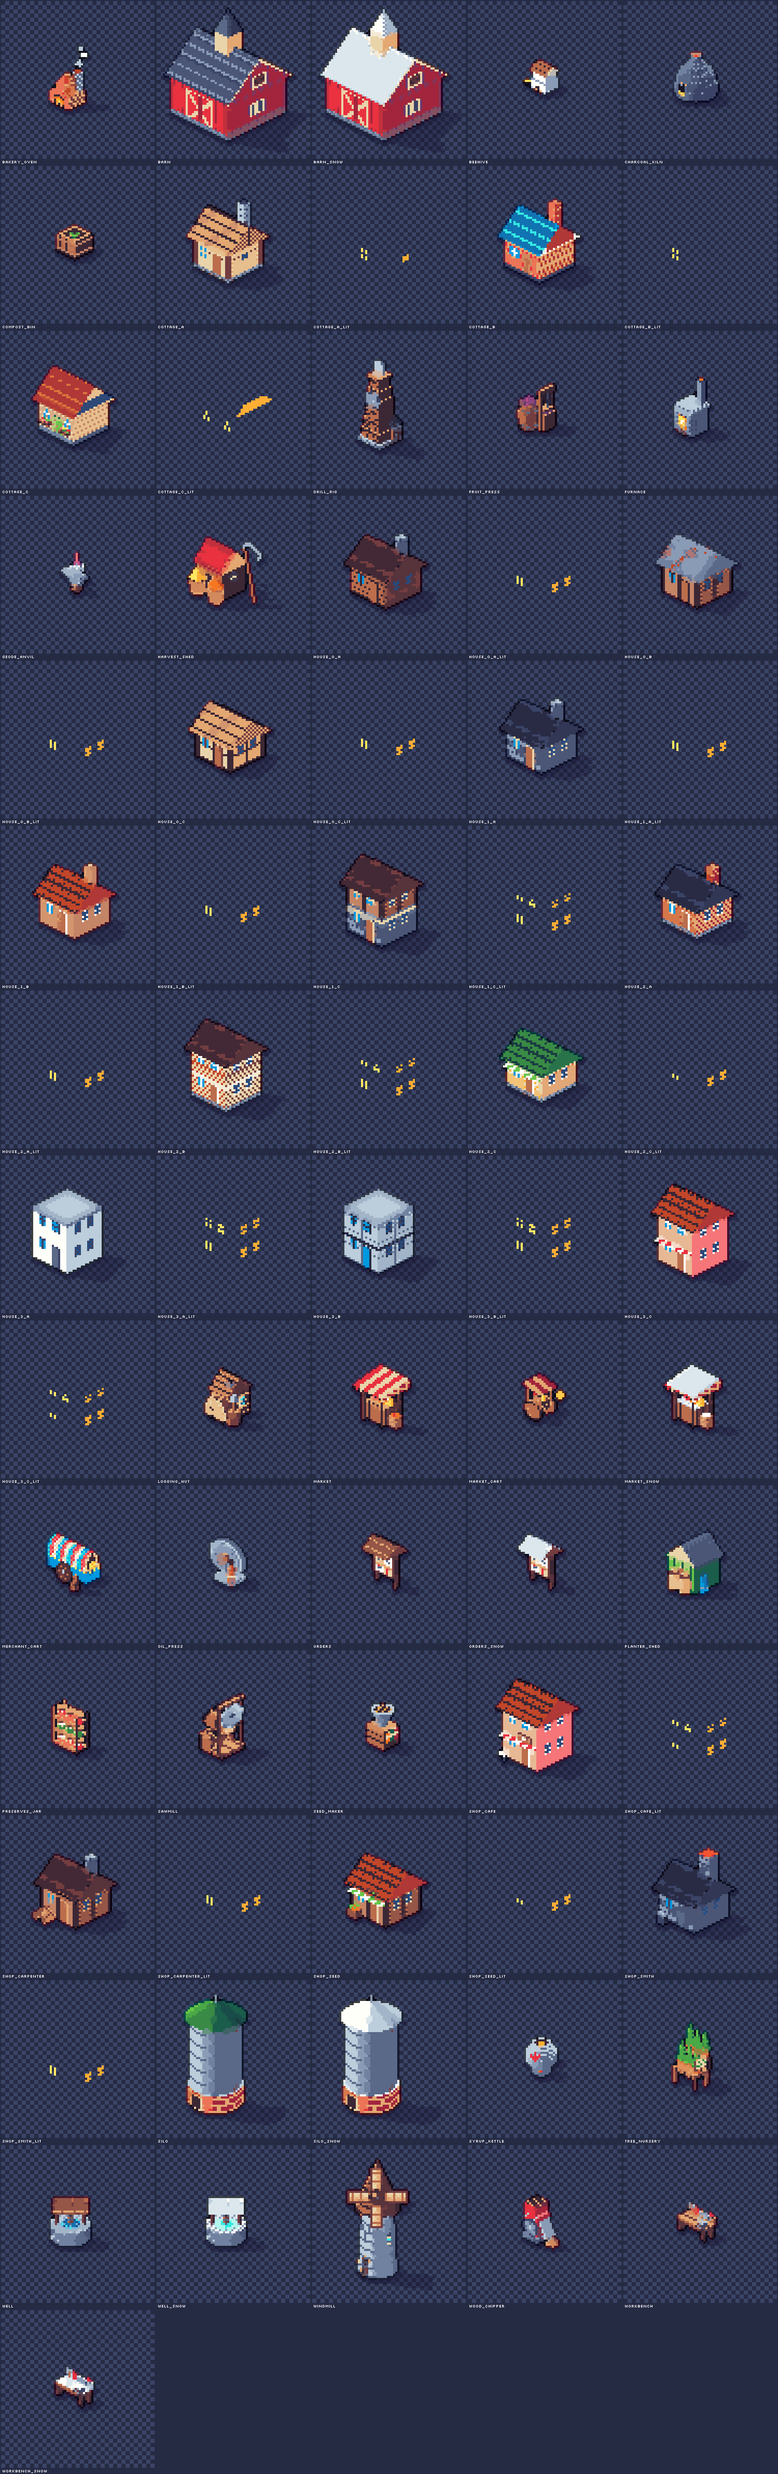
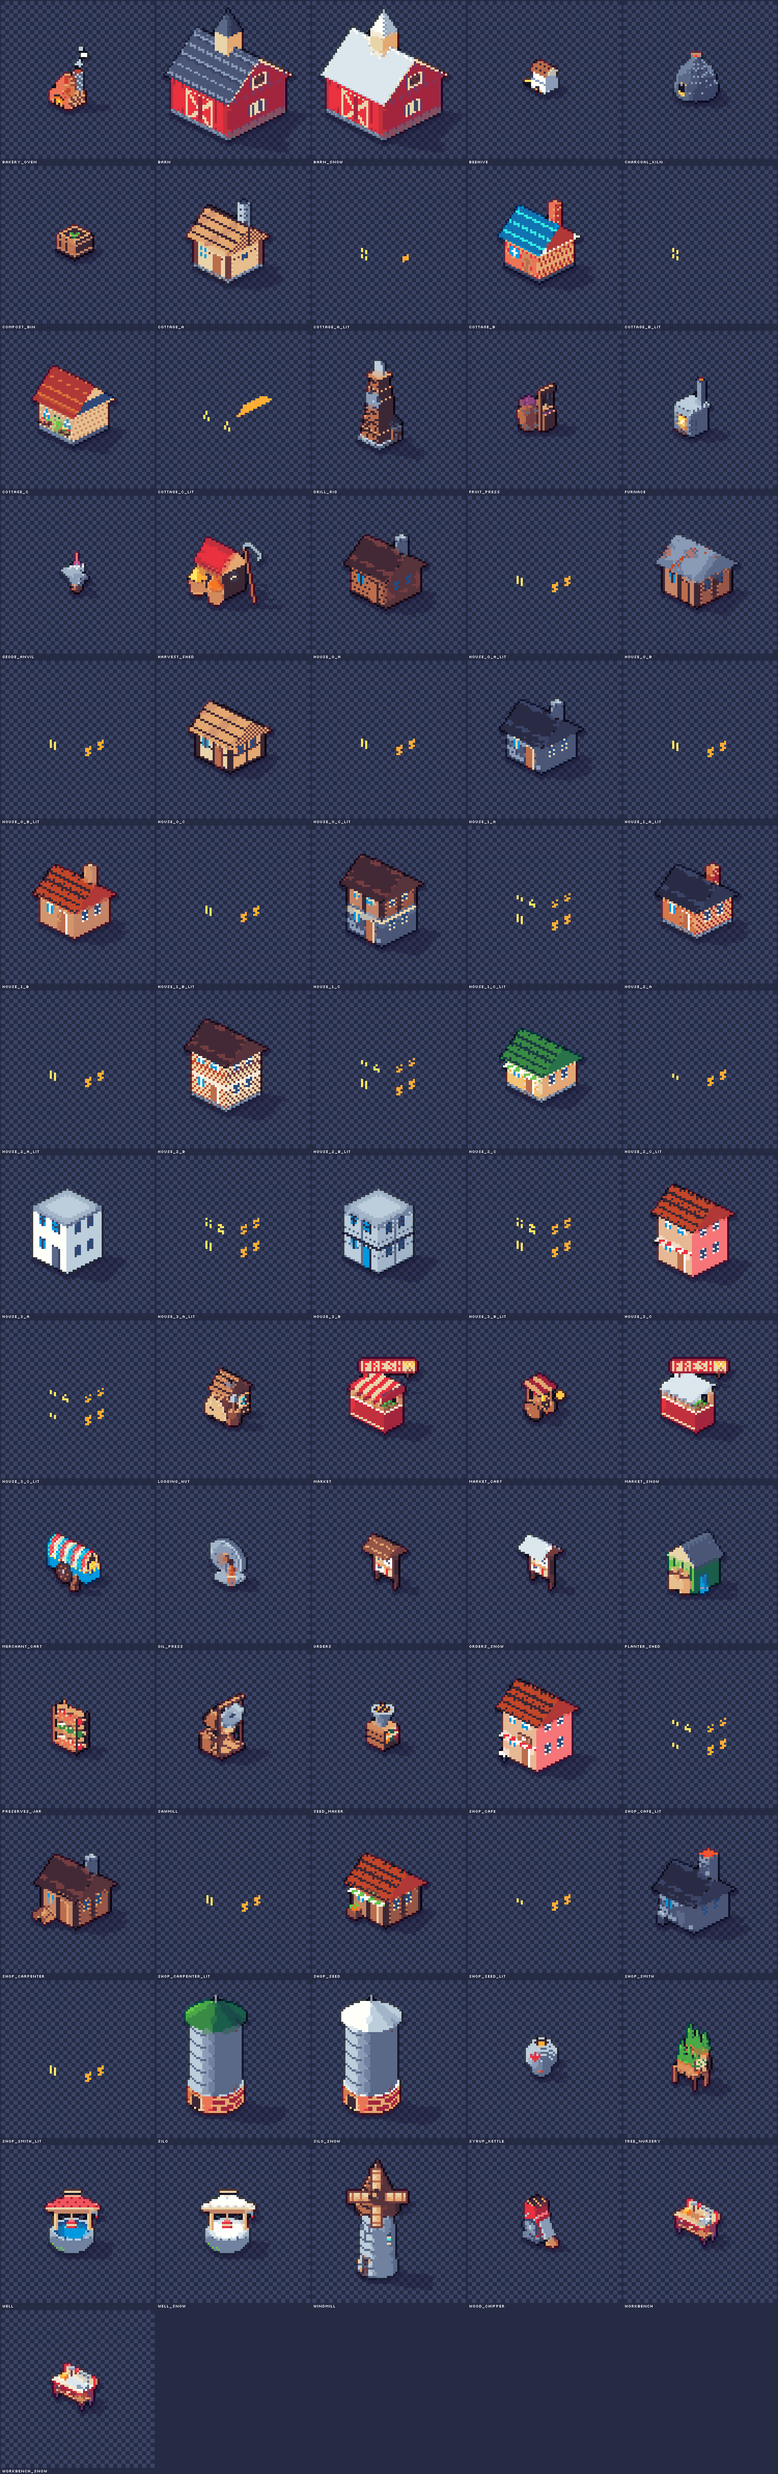
Art round 5: hand-pixeled truck, workbench, well and market stall in the game
The painted-toy versions replace the ray-cast ones (their generators no longer
emit them), each redrawn to fit its scale band.

Claude-Session: https://claude.ai/code/session_01WzqNnDX2S9CAE6QnGepdXg

diff --git a/farm-game/Tools/ArtGen/pixel/farm_hand.py b/farm-game/Tools/ArtGen/pixel/farm_hand.py
@@ -7,18 +7,20 @@ the farm: the barn's red-and-cream trim on every building and vehicle, the wheat
 nothing is copied from them.
 
   vehicles/truck_se_0/1, truck_ne_0/1   the red pickup, driving down-right / away up-right
+  vehicles/truck_load                   produce crates in its bed (drawn on the parked truck)
   buildings/workbench(_snow)            the farmyard workbench
   buildings/well(_snow)                 the stone well
   buildings/market(_snow)               the market stall
 
 Pivot = the ground centre of the footprint.
 """
+import json
 import os
 import sys
 
 sys.path.insert(0, os.path.dirname(os.path.abspath(__file__)))
 from _iso import Iso, soften  # noqa: E402
-from _pix import finish  # noqa: E402
+from _pix import Sprites, finish  # noqa: E402
 
 # Paint (top / left face / right face).
 RED = ("red", "red_d", "purple")
@@ -46,26 +48,26 @@ def truck_se(frame):
     c = Iso(40, 34, 12, 14)
     c.box(0.5, 11.5, 0.5, 4.5, 1, 2.5, *DARK, lit=False)                      # chassis
     # Bed: red sides with cream stakes and rim, the wheat emblem, a wooden floor inside.
-    c.box(0, 6.6, 0, W, 2, 7, "cream", "red_d", "purple")
-    c.box(0.4, 6.6, 0.4, W - 0.4, 2.6, 6.6, "brown", "brown_l", "brown_d", lit=False)
+    c.box(0, 6.6, 0, W, 2, 6, "cream", "red_d", "purple")
+    c.box(0.4, 6.6, 0.4, W - 0.4, 2.6, 5.6, "brown", "brown_l", "brown_d", lit=False)
     for i in range(3):
         c.uline(0.6, 6.4, 1.3 + i * 1.2, 2.6, "brown_d")                      # floor planks
     for u in (0.3, 6.2):
-        c.zline(u, W, 2, 7, "cream")                                          # stakes
-    x, y = c.p(2.4, W, 6.4)
+        c.zline(u, W, 2, 6, "cream")                                          # stakes
+    x, y = c.p(2.4, W, 5.8)
     c.wheat(x, y)
     # Cab: red, cream roof, windows with a glint, door seam and handle.
-    c.box(6.6, 9.6, 0, W, 2, 11, "cream", "red", "red_d")
-    c.box(6.9, 9.3, W - 0.01, W, 6.6, 9.8, "blue_d", "blue_d", "blue_d", lit=False)
-    c.box(9.59, 9.6, 0.5, W - 0.5, 7.0, 10.2, "blue_d", "blue_d", "blue_d", lit=False)
-    x, y = c.p(7.2, W, 9.3)
+    c.box(6.6, 9.6, 0, W, 2, 10, "cream", "red", "red_d")
+    c.box(6.9, 9.3, W - 0.01, W, 6.2, 9.0, "blue_d", "blue_d", "blue_d", lit=False)
+    c.box(9.59, 9.6, 0.5, W - 0.5, 6.4, 9.4, "blue_d", "blue_d", "blue_d", lit=False)
+    x, y = c.p(7.2, W, 8.5)
     c.dot(x, y, "cyan"); c.dot(x + 1, y, "white"); c.dot(x + 2, y + 1, "cyan")
-    x, y = c.p(9.6, 1.0, 9.7)
+    x, y = c.p(9.6, 1.0, 8.9)
     c.dot(x, y, "white"); c.dot(x - 1, y + 1, "cyan")
-    x, y = c.p(9.6, W, 6.6)                                                   # pillar between windows
+    x, y = c.p(9.6, W, 6.2)                                                   # pillar between windows
     for k in range(4):
         c.dot(x - 1, y - k, "red"); c.dot(x - 2, y - k, "red_d")
-    c.zline(6.9, W, 2.4, 10, "red_d")
+    c.zline(6.9, W, 2.4, 9.2, "red_d")
     x, y = c.p(7.6, W, 5.6)
     c.dot(x, y, "cream"); c.dot(x + 1, y, "cream")
     # Bonnet: red, cream stripe, grille, lamps, cream bumper.
@@ -79,7 +81,7 @@ def truck_se(frame):
         x, y = c.p(L, v, 5.0)
         c.dot(x - 1, y, "yellow"); c.dot(x - 2, y, "white")
     c.box(L, L + 0.25, 0.2, W - 0.2, 1.8, 2.6, "cream", "cream", "tan")
-    c.box(9.2, 9.5, W, W + 0.5, 8, 9.2, *IRON)                                # mirror
+    c.box(9.2, 9.5, W, W + 0.5, 7.4, 8.6, *IRON)                                # mirror
     x, y = c.p(0.1, W, 5.5)
     c.dot(x, y, "pink_r"); c.dot(x + 1, y, "pink_r")                          # tail lamp
     for u in (2.4, 9.7):
@@ -95,24 +97,24 @@ def truck_ne(frame):
     c = Iso(40, 34, 22, 8)
     c.box(0.5, 4.5, 0.5, 11.5, 1, 2.5, *DARK, lit=False)
     # Length runs along v here: bonnet at the far end (small v), cab, then the bed nearest.
-    c.box(0, W, 0, 2.6, 2, 6.6, "red", "red", "red_d")                       # bonnet
-    c.box(0, W, 2.6, 5.6, 2, 11, "cream", "red", "red_d")                    # cab
-    c.box(W - 0.01, W, 3.0, 5.2, 6.6, 9.8, "blue_d", "blue_d", "blue_d", lit=False)
-    x, y = c.p(W, 3.4, 9.4)
+    c.box(0, W, 0, 2.6, 2, 6, "red", "red", "red_d")                         # bonnet
+    c.box(0, W, 2.6, 5.6, 2, 8.8, "cream", "red", "red_d")                   # cab
+    c.box(W - 0.01, W, 3.0, 5.2, 5.6, 8.0, "blue_d", "blue_d", "blue_d", lit=False)
+    x, y = c.p(W, 3.4, 7.6)
     c.dot(x - 1, y, "cyan"); c.dot(x - 2, y + 1, "white")
-    x, y = c.p(0.8, 5.59, 10.2)                                              # rear window
+    x, y = c.p(0.8, 5.59, 8.2)                                              # rear window
     for i in range(6):
         c.dot(x + i, y + i // 2, "blue_d"); c.dot(x + i, y + i // 2 + 1, "blue_d")
     c.dot(x + 1, y + 1, "cyan")
-    c.box(0, W, 5.6, L, 2, 7, "cream", "red", "red_d")                       # bed
-    c.box(0.4, W - 0.4, 5.6, L - 0.4, 2.6, 6.6, "brown", "brown_l", "brown_d", lit=False)
-    c.vline(W, round(L - 5.6), 5.6, 4.6, "cream")                            # side stripe
+    c.box(0, W, 5.6, L, 2, 6, "cream", "red", "red_d")                       # bed
+    c.box(0.4, W - 0.4, 5.6, L - 0.4, 2.6, 5.6, "brown", "brown_l", "brown_d", lit=False)
+    c.vline(W, round(L - 5.6), 5.6, 4.2, "cream")                            # side stripe
     for i in range(3):
         c.vline(0.8 + i * 1.2, round(L - 6.2), 5.8, 2.6, "brown_d")
-    x, y = c.p(W / 2 - 0.4, L, 6.6)                                          # tailgate emblem
+    x, y = c.p(W / 2 - 0.4, L, 5.8)                                          # tailgate emblem
     c.wheat(x - 2, y)
     for u in (0.4, W - 0.8):                                                 # tail lamps
-        x, y = c.p(u, L, 5.4)
+        x, y = c.p(u, L, 4.8)
         c.dot(x, y, "pink_r"); c.dot(x + 1, y, "pink_r")
     c.box(0.2, W - 0.2, L, L + 0.25, 1.8, 2.6, "cream", "cream", "tan")      # bumper
     for v in (3.2, 9.6):
@@ -130,37 +132,37 @@ def workbench(winter):
     U, V = 7, 3
     top = "white" if winter else "tan"
     for u, v in ((0.2, 2.4), (6.4, 2.4), (6.4, 0.2)):                        # red legs
-        c.box(u, u + 0.5, v, v + 0.5, 0, 7, "red", "red_d", "purple")
-    c.box(0.4, 6.6, 0.4, 2.6, 2, 2.8, *WOOD_D)                                # bottom shelf
-    c.box(0.8, 4.0, 0.8, 2.2, 2.8, 4.4, "tan", "brown_l", "brown")          # planks on it
-    c.uline(0.8, 4.0, 2.2, 3.6, "brown")
-    c.box(0, U, 0, V, 7, 8.6, top, "red", "red_d")                            # top with a red apron
-    c.uline(0, U, 1, 8.6, "brown_l" if not winter else "grey_l")              # plank seams
-    c.uline(0, U, 2, 8.6, "brown_l" if not winter else "grey_l")
-    c.uline(0, U, V, 7.6, "cream")                                            # cream trim on the apron
-    c.box(2, 5, V - 0.01, V, 4.6, 6.8, "red_d", "red_d", "red_d", lit=False)  # drawer
-    x, y = c.p(3.5, V, 5.6)
+        c.box(u, u + 0.5, v, v + 0.5, 0, 6, "red", "red_d", "purple")
+    c.box(0.4, 6.6, 0.4, 2.6, 1.6, 2.4, *WOOD_D)                                # bottom shelf
+    c.box(0.8, 4.0, 0.8, 2.2, 2.4, 3.8, "tan", "brown_l", "brown")          # planks on it
+    c.uline(0.8, 4.0, 2.2, 3.1, "brown")
+    c.box(0, U, 0, V, 6, 7.6, top, "red", "red_d")                            # top with a red apron
+    c.uline(0, U, 1, 7.6, "brown_l" if not winter else "grey_l")              # plank seams
+    c.uline(0, U, 2, 7.6, "brown_l" if not winter else "grey_l")
+    c.uline(0, U, V, 6.6, "cream")                                            # cream trim on the apron
+    c.box(2, 5, V - 0.01, V, 3.8, 5.8, "red_d", "red_d", "red_d", lit=False)  # drawer
+    x, y = c.p(3.5, V, 4.8)
     c.dot(x, y, "cream"); c.dot(x + 1, y, "cream")
     # Tool board at the back, cream with a red frame, tools hanging on it.
-    c.box(0, U, -0.5, 0, 8.6, 15.5, "red", "cream", "tan_d")
-    c.uline(0, U, 0, 15.0, "red")
-    c.zline(0.1, 0, 8.6, 15.4, "red")
-    c.zline(U - 0.1, 0, 8.6, 15.4, "red")
-    x, y = c.p(1.0, 0, 14.0)                                                  # hammer
+    c.box(0, U, -0.5, 0, 7.6, 11.8, "red", "cream", "tan_d")
+    c.uline(0, U, 0, 11.3, "red")
+    c.zline(0.1, 0, 7.6, 11.7, "red")
+    c.zline(U - 0.1, 0, 7.6, 11.7, "red")
+    x, y = c.p(1.0, 0, 10.6)                                                  # hammer
     for i in range(3):
         c.dot(x + i, y, "grey_l"); c.dot(x + i, y + 1, "grey")
-    for i in range(4):
+    for i in range(3):
         c.dot(x + 1, y + 2 + i, "brown")
-    x, y = c.p(2.6, 0, 13.6)                                                  # saw
+    x, y = c.p(2.6, 0, 10.2)                                                  # saw
     c.dot(x, y, "red"); c.dot(x + 1, y, "red"); c.dot(x, y + 1, "red_d")
     for i in range(6):
         c.dot(x + 2 + i, y + i // 2, "grey_l"); c.dot(x + 2 + i, y + i // 2 + 1, "grey" if i % 2 else "grey_d")
-    x, y = c.p(5.4, 0, 14.2)                                                  # wrench
+    x, y = c.p(5.4, 0, 10.8)                                                  # wrench
     c.dot(x - 1, y, "grey"); c.dot(x + 1, y, "grey"); c.dot(x, y + 1, "grey")
-    for i in range(4):
+    for i in range(3):
         c.dot(x, y + 2 + i, "grey_d")
-    c.box(5.4, 6.7, 1.0, 2.2, 8.6, 10.2, *IRON)                               # vice
-    c.box(1.0, 1.6, 1.2, 1.8, 8.6, 10.6, "yellow", "amber", "orange")        # oil can
+    c.box(5.4, 6.7, 1.0, 2.2, 7.6, 9.2, *IRON)                               # vice
+    c.box(1.0, 1.6, 1.2, 1.8, 7.6, 9.6, "yellow", "amber", "orange")        # oil can
     soften(c.im)
     return c, c.pivot(U / 2, V / 2)
 
@@ -171,16 +173,16 @@ def well(winter):
     """Stone drum, cream posts, a red shingle roof with cream trim, red bucket on its rope."""
     c = Iso(40, 46, 20, 30)
     cx, cy = c.p(0, 0, 0)
-    rx, ry, hgt = 10, 5, 9
+    rx, ry, hgt = 10, 5, 6
     for z in range(hgt + 1):
         c.ellipse(cx, cy - z, rx, ry, "grey" if z < hgt else "grey_l")
-    for z in (3, 6):                                                          # mortar courses
+    for z in (2, 4):                                                          # mortar courses
         for x in range(cx - rx + 1, cx + rx):
             dx = (x - cx) / rx
             c.dot(x, round(cy - z + ry * (1 - dx * dx) ** 0.5), "grey_d")
     for x in range(cx - rx + 3, cx + rx - 1, 4):                              # staggered joints
-        for z0 in (0, 3, 6):
-            xx = x + (2 if (z0 // 3) % 2 else 0)
+        for z0 in (0, 2, 4):
+            xx = x + (2 if (z0 // 2) % 2 else 0)
             if abs(xx - cx) >= rx - 1:
                 continue
             dx = (xx - cx) / rx
@@ -195,11 +197,11 @@ def well(winter):
         c.ellipse(cx + 1, cy - hgt + 1, rx - 4, ry - 2, "blue")
         c.dot(cx - 3, cy - hgt - 1, "cyan"); c.dot(cx - 2, cy - hgt - 1, "cyan")
     for px_ in (cx - 8, cx + 8):                                              # cream posts
-        for z in range(hgt, hgt + 14):
+        for z in range(hgt, hgt + 10):
             c.dot(px_, cy - z, "cream"); c.dot(px_ + 1, cy - z, "tan")
     for x in range(cx - 8, cx + 10):                                          # crossbeam
-        c.dot(x, cy - hgt - 13, "cream"); c.dot(x, cy - hgt - 12, "tan_d")
-    for z in range(hgt + 4, hgt + 12):
+        c.dot(x, cy - hgt - 9, "cream"); c.dot(x, cy - hgt - 8, "tan_d")
+    for z in range(hgt + 4, hgt + 8):
         c.dot(cx, cy - z, "tan")                                              # rope
     c.ellipse(cx, cy - hgt - 3, 2, 1, "pink")                                 # red bucket, cream hoops
     for z in range(hgt + 1, hgt + 4):
@@ -209,21 +211,21 @@ def well(winter):
     for x in range(cx - 2, cx + 3):
         c.dot(x, cy - hgt - 2, "cream")
     for i in range(3):                                                        # crank
-        c.dot(cx + 10 + i, cy - hgt - 12, "grey")
-    c.dot(cx + 12, cy - hgt - 11, "grey"); c.dot(cx + 12, cy - hgt - 10, "red")
+        c.dot(cx + 10 + i, cy - hgt - 8, "grey")
+    c.dot(cx + 12, cy - hgt - 7, "grey"); c.dot(cx + 12, cy - hgt - 6, "red")
     # Roof: red shingle rows, cream eave board and ridge cap (the barn's colours).
     base, lip, seam = ("white", "white", "grey_l") if winter else ("red", "pink", "red_d")
-    rows = 4
+    rows = 3
     for row in range(rows):
-        y = cy - hgt - 16 - row * 2
-        half = 12 - row * 3
+        y = cy - hgt - 12 - row * 2
+        half = 12 - row * 4
         for x in range(cx - half, cx + half + 2):
             c.dot(x, y, lip)
             c.dot(x, y + 1, seam if (x + row * 2) % 4 == 0 else base)
     for x in range(cx - 12, cx + 14):
-        c.dot(x, cy - hgt - 14, "cream"); c.dot(x, cy - hgt - 13, "tan_d")     # eave board
+        c.dot(x, cy - hgt - 10, "cream"); c.dot(x, cy - hgt - 9, "tan_d")      # eave board
     for x in range(cx - 3, cx + 5):
-        c.dot(x, cy - hgt - 16 - rows * 2, "cream")                           # ridge cap
+        c.dot(x, cy - hgt - 12 - rows * 2, "cream")                           # ridge cap
     soften(c.im)
     return c, (cx, cy + ry)
 
@@ -235,7 +237,7 @@ def market(winter):
     c = Iso(52, 60, 22, 40)
     U, V = 8, 4
     for u, v in ((0, V - 0.4), (U - 0.4, V - 0.4), (U - 0.4, 0)):            # cream posts
-        c.box(u, u + 0.4, v, v + 0.4, 0, 19, *CREAM)
+        c.box(u, u + 0.4, v, v + 0.4, 0, 16, *CREAM)
     c.box(0, U, 0, V, 0, 9, "cream", "red", "red_d")                         # counter
     for k in range(1, U):
         c.zline(k, V, 0.6, 8.4, "red_d")                                     # front boards
@@ -250,29 +252,66 @@ def market(winter):
     stripes = ("white", "grey_l") if winter else ("red", "cream")
     for k in range(U * 2):                                                   # striped awning
         u = k * 0.5
-        c.poly([(u, -0.4, 22), (u + 0.5, -0.4, 22), (u + 0.5, V + 0.6, 18), (u, V + 0.6, 18)], stripes[(k // 2) % 2])
+        c.poly([(u, -0.4, 18.5), (u + 0.5, -0.4, 18.5), (u + 0.5, V + 0.6, 15), (u, V + 0.6, 15)], stripes[(k // 2) % 2])
     for k in range(U * 2):                                                   # scalloped valance
         u = k * 0.5
-        x, y = c.p(u, V + 0.6, 18)
+        x, y = c.p(u, V + 0.6, 15)
         col = ("grey_l" if winter else "red_d") if (k // 2) % 2 == 0 else ("grey" if winter else "tan")
         c.dot(x, y + 1, col); c.dot(x + 1, y + 1, col)
         if k % 2 == 0:
             c.dot(x, y + 2, col)
     if not winter:
-        c.box(U - 0.01, U, -0.4, V + 0.6, 18, 22, "purple", "purple", "red_d", lit=False)
+        c.box(U - 0.01, U, -0.4, V + 0.6, 15, 18.5, "purple", "purple", "red_d", lit=False)
     # The painted sign on top of the awning: FRESH with the wheat emblem.
-    sx, sy = c.p(U / 2, -0.4, 22)
-    sx -= 13; sy -= 9
+    sx, sy = c.p(U / 2, -0.4, 18.5)
+    sx -= 13; sy -= 8
     for x in range(sx, sx + 28):
-        for y in range(sy, sy + 8):
-            edge = x in (sx, sx + 27) or y in (sy, sy + 7)
+        for y in range(sy, sy + 7):
+            edge = x in (sx, sx + 27) or y in (sy, sy + 6)
             c.dot(x, y, "red_d" if edge else "cream")
-    c.text(sx + 2, sy + 2, "FRESH", "red")
+    c.text(sx + 2, sy + 1, "FRESH", "red")
     c.wheat(sx + 22, sy + 1)
     for x in (sx + 4, sx + 23):
-        c.dot(x, sy + 8, "brown"); c.dot(x, sy + 9, "brown")
+        c.dot(x, sy + 7, "brown"); c.dot(x, sy + 8, "brown")
     soften(c.im)
     return c, c.pivot(U / 2, V / 2)
+
+
+def truck_load():
+    """Crates of produce in the bed of the parked (down-right) truck, on the truck's own pivot."""
+    L, W = 12, 5
+    c = Iso(40, 34, 12, 14)
+    for u0, v0, z0 in ((0.6, 0.6, 2.6), (3.4, 0.6, 2.6), (0.6, 0.6, 5.8)):
+        c.box(u0, u0 + 2.6, v0, v0 + 3.6, z0, z0 + 3.2, "tan", "brown_l", "brown")
+        c.uline(u0, u0 + 2.6, v0 + 3.6, z0 + 1.6, "brown")
+    for u, v, light, dark in ((1.2, 1.4, "pink", "red"), (2.2, 2.6, "amber", "orange"), (4.2, 1.6, "green", "green_d"), (5.0, 2.8, "pink", "red")):
+        x, y = c.p(u, v, 9.4 if u < 3.4 else 6.2)
+        c.dot(x, y, light); c.dot(x + 1, y, dark); c.dot(x, y + 1, dark); c.dot(x + 1, y + 1, dark)
+    return c, c.pivot(L / 2, W / 2)
+
+
+def emit(sp, name, made):
+    cnv, (px, py) = made
+    x0, y0, x1, y1 = cnv.im.getbbox()
+    body, pad = finish(cnv.im.crop((x0, y0, x1, y1)))
+    sp.save(name, body, px - x0 + pad, py - y0 + pad)
+
+
+def main():
+    art = sys.argv[1]
+    veh = Sprites(art, "vehicles")
+    bld = Sprites(art, "buildings")
+    for f in (0, 1):
+        emit(veh, f"truck_se_{f}", truck_se(f))
+        emit(veh, f"truck_ne_{f}", truck_ne(f))
+    emit(veh, "truck_load", truck_load())
+    for name, fn in (("workbench", workbench), ("well", well), ("market", market)):
+        emit(bld, name, fn(False))
+        emit(bld, name + "_snow", fn(True))
+    pivots = {}
+    for sp in (veh, bld):
+        pivots.update(sp.pivots)
+    print(json.dumps(pivots))
 
 
 PROPS = [("vehicles/truck_se_0", lambda: truck_se(0)), ("vehicles/truck_ne_0", lambda: truck_ne(0)),
@@ -311,5 +350,8 @@ def preview(out):
     sheet.resize((sheet.width * 5, sheet.height * 5), Image.NEAREST).save(out)
 
 
-if __name__ == "__main__" and len(sys.argv) > 2 and sys.argv[1] == "--preview":
-    preview(sys.argv[2])
+if __name__ == "__main__":
+    if len(sys.argv) > 2 and sys.argv[1] == "--preview":
+        preview(sys.argv[2])
+    else:
+        main()

diff --git a/farm-game/Tools/ArtGen/scaled.py b/farm-game/Tools/ArtGen/scaled.py
@@ -23,9 +23,6 @@ from _pix import Sprites, finish, new  # noqa: E402
 
 # name: (module, folder, scale)
 SCALE = {
-    "workbench": ("buildings", "buildings", 0.55),
-    "well": ("buildings", "buildings", 0.7),
-    "market": ("buildings", "buildings", 0.72),
     "orders": ("buildings", "buildings", 0.7),
     "compost_bin": ("machines_farm", "buildings", 0.6),
     "bakery_oven": ("machines_farm", "buildings", 0.6),
@@ -46,7 +43,6 @@ SCALE = {
     "logging_hut": ("machines_wild", "buildings", 0.9),
     "tree_nursery": ("machines_wild", "buildings", 0.72),
     "harvester": ("village", "vehicles", 0.7),
-    "truck": ("village", "vehicles", 0.66),
     "crate": ("village", "deco", 0.72),
 }
 

diff --git a/farm-game/Tools/ArtGen/pixel/village.py b/farm-game/Tools/ArtGen/pixel/village.py
@@ -738,8 +738,7 @@ def main():
     for heading in ("se", "ne"):
         for frame in (0, 1):
             emit(veh, f"harvester_{heading}_{frame}", harvester(heading, frame))
-            emit(veh, f"truck_{heading}_{frame}", truck(heading, frame))
-    emit(veh, "truck_load", truck_load())
+    # The pickup truck and its load are hand-pixeled in farm_hand.py (art round 5).
 
     emit(bld, "cottage_a", cottage_a())
     emit(bld, "cottage_b", cottage_b())

diff --git a/farm-game/Tools/ArtGen/pixel/buildings.py b/farm-game/Tools/ArtGen/pixel/buildings.py
@@ -570,8 +570,9 @@ def workbench(winter):
     return solids
 
 
-BUILDINGS = [("barn", barn), ("silo", silo), ("market", market), ("orders", orders),
-             ("well", well), ("workbench", workbench)]
+# The market stall, well and workbench are hand-pixeled in farm_hand.py (art round 5); their
+# ray-cast models stay for previews.
+BUILDINGS = [("barn", barn), ("silo", silo), ("orders", orders)]
 
 
 def main():

diff --git a/farm-game/Docs/DECISIONS.md b/farm-game/Docs/DECISIONS.md
@@ -5,7 +5,7 @@ Answers the owner gave while scoping the game. `GAME_DESIGN.md` must follow thes
 ## Platform and presentation
 - Native Android (Kotlin, custom Canvas renderer). No Unity.
 - Portrait, isometric view. Tap the farm directly (Hay Day style); there is no avatar.
-- Pixel art: 32px, Endesga-32 palette, checker dithering, black outline, hard drop shadow. Art round 3 (sharp and clean, inspired by a lush reference but without its blur): a wider palette with hue shifting (shadows cooler, highlights warmer), no dithering (clean steps), coloured outlines, crisp see-through cast shadows to the lower right with sun spots under trees, leaf-cluster foliage, and posterised ground patches with grass clumps. World sprites and items get this from Tools/ArtGen/polish.py; art round 4 gives UI icons, panels, buttons and villager portraits the same clean look (9-slice sizes and corners unchanged). Rocks (picked from three styles): ore-coloured rocks about a farmhand wide and knee high, three shape variants each; ore and stone item icons match. The Mine Mouth is a timber tunnel cut into a grass-topped block that joins the quarry cliffs.
+- Pixel art: 32px, Endesga-32 palette, checker dithering, black outline, hard drop shadow. Art round 3 (sharp and clean, inspired by a lush reference but without its blur): a wider palette with hue shifting (shadows cooler, highlights warmer), no dithering (clean steps), coloured outlines, crisp see-through cast shadows to the lower right with sun spots under trees, leaf-cluster foliage, and posterised ground patches with grass clumps. World sprites and items get this from Tools/ArtGen/polish.py; art round 4 gives UI icons, panels, buttons and villager portraits the same clean look (9-slice sizes and corners unchanged). Rocks (picked from three styles): ore-coloured rocks about a farmhand wide and knee high, three shape variants each; ore and stone item icons match. The Mine Mouth is a timber tunnel cut into a grass-topped block that joins the quarry cliffs. Art round 5 (owner pick: a hand-pixeled redo of the main farm, Dither Farm's own painted-toy look): flat bold paint, chunky rounded silhouettes and a lit edge on every top, with three signature marks repeated across the farm: the barn's red-and-cream trim, the wheat-sheaf emblem from the app icon and hand-painted names. Drawn pixel by pixel on the iso grid (Tools/ArtGen/pixel/_iso.py, farm_hand.py), in batches the owner sees first; the pickup truck and its load, the workbench, the well and the market stall come first, sized to the scale bands. Reference packs the owner shared were looked at for readability only; nothing is copied from them.
 - Font: Silkscreen (OFL).
 - SFX only, no music. Haptics with a settings toggle.
 - App name: **Dither Farm**. The APK is built by GitHub Actions.
